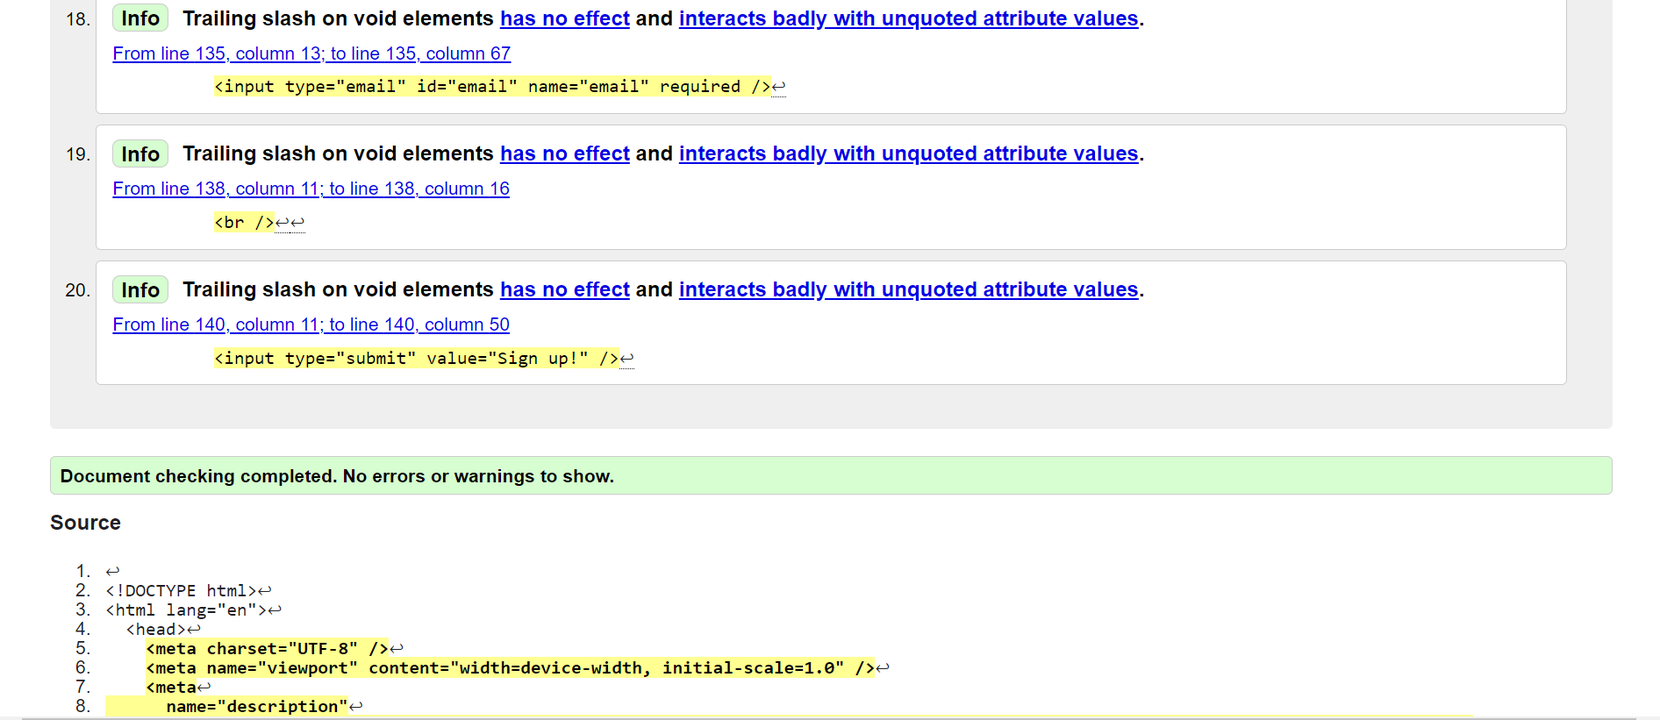
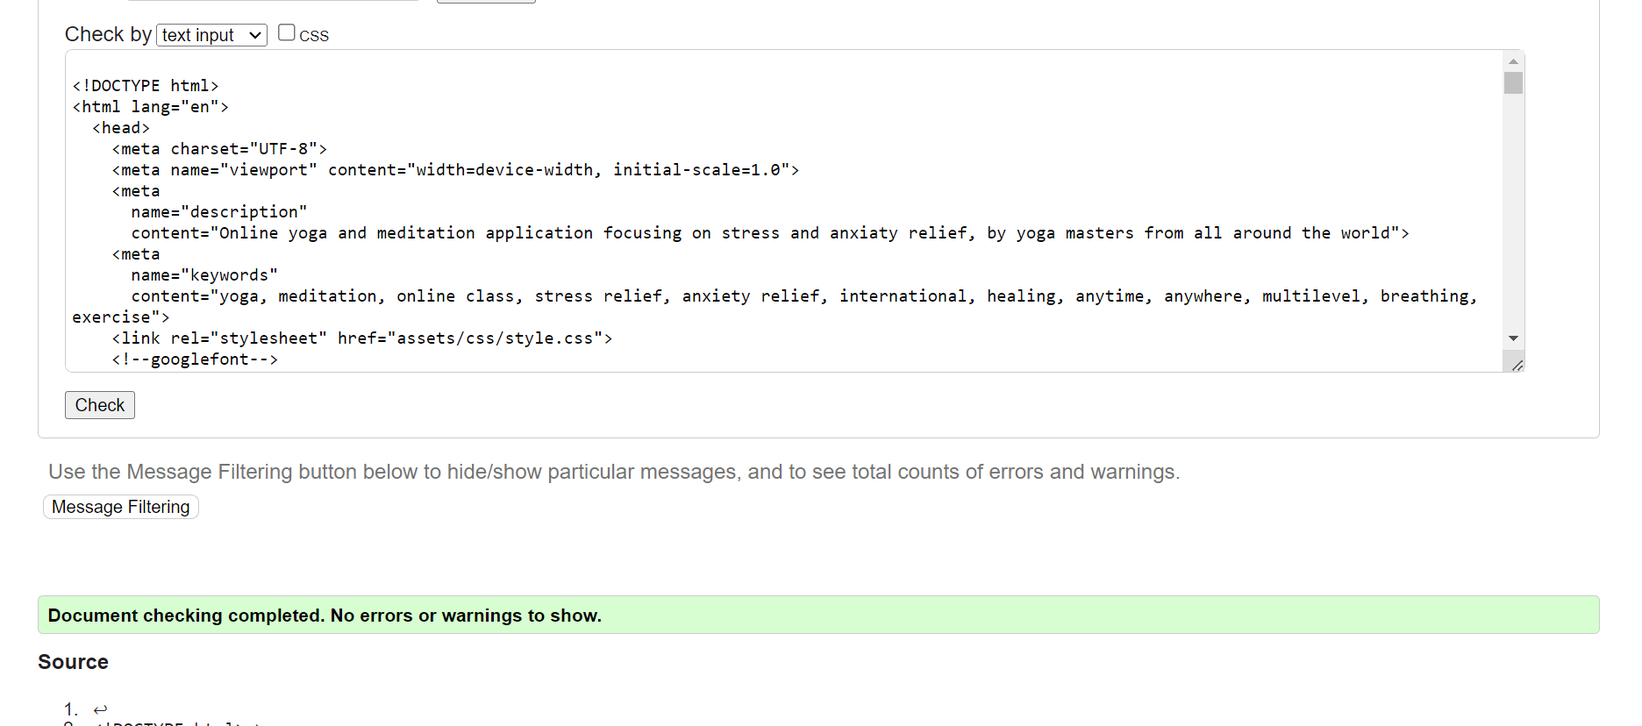
change html format, and html validator result and image

diff --git a/index.html b/index.html
@@ -1,25 +1,21 @@
 <!DOCTYPE html>
 <html lang="en">
   <head>
-    <meta charset="UTF-8" />
-    <meta name="viewport" content="width=device-width, initial-scale=1.0" />
+    <meta charset="UTF-8">
+    <meta name="viewport" content="width=device-width, initial-scale=1.0">
     <meta
       name="description"
-      content="Online yoga and meditation application focusing on stress and anxiaty relief, by yoga masters from all around the world"
-    />
+      content="Online yoga and meditation application focusing on stress and anxiaty relief, by yoga masters from all around the world">
     <meta
       name="keywords"
-      content="yoga, meditation, online class, stress relief, anxiety relief, international, healing, anytime, anywhere, multilevel, breathing, exercise"
-    />
-    <link rel="stylesheet" href="assets/css/style.css" />
+      content="yoga, meditation, online class, stress relief, anxiety relief, international, healing, anytime, anywhere, multilevel, breathing, exercise">
+    <link rel="stylesheet" href="assets/css/style.css">
     <!--googlefont-->
     <link
       href="https://fonts.googleapis.com/css2?family=Gloria+Hallelujah&family=Noto+Sans+Gujarati:wght@300;400;500;600&display=swap"
-      rel="stylesheet"
-    />
+      rel="stylesheet">
     <title>Relief Online yoga and meditation</title>
   </head>
-
   <body>
     <!--header-->
     <header>
@@ -33,23 +29,17 @@
             <a href="#home" aria-label="go to the top of the page">Home</a>
           </li>
           <li>
-            <a href="#about" aria-label="go to the about us section on the page"
-              >About</a
-            >
+            <a href="#about" aria-label="go to the about us section on the page">About</a>
           </li>
           <li>
             <a
               href="#sign-up"
-              aria-label="go to the sign up section on the page"
-              >Sign up</a
-            >
+              aria-label="go to the sign up section on the page">Sign up</a>
           </li>
           <li>
             <a
               href="#contact"
-              aria-label="go to the contact information section of the page"
-              >Contact</a
-            >
+              aria-label="go to the contact information section of the page">Contact</a>
           </li>
         </ul>
       </nav>
@@ -58,8 +48,7 @@
     <main>
       <section
         id="home"
-        aria-label="A woman is doing yoga in her home in the background image."
-      >
+        aria-label="A woman is doing yoga in her home in the background image.">
         <div>
           <h1>RELIEF Yoga & Meditation</h1>
           <h2>Anxiety and stress-relief online</h2>
@@ -67,7 +56,7 @@
       </section>
       <section id="about">
         <div class="about-paragraph" id="introduction">
-          <h3>Who are we? <br /><i class="fa-solid fa-spa"></i></h3>
+          <h3>Who are we? <br><i class="fa-solid fa-spa"></i></h3>
           <p>
             A brand new application that helps you calm down and be reborn from
             your traumas through yoga and meditation classes with the most
@@ -76,7 +65,7 @@
         </div>
         <div id="beneficial">
           <div id="when-should-apply" class="about-paragraph">
-            <h3>When should you apply?<br /><i class="fa-solid fa-spa"></i></h3>
+            <h3>When should you apply?<br><i class="fa-solid fa-spa"></i></h3>
             <ul id="reasons">
               <li>You have a busy schedule</li>
               <li>You have unsolved traumas</li>
@@ -87,7 +76,7 @@
           </div>
           <div id="benefits" class="about-paragraph">
             <h3>
-              Benefits of our classes: <br /><i class="fa-solid fa-spa"></i>
+              Benefits of our classes: <br><i class="fa-solid fa-spa"></i>
             </h3>
             <ul id="features">
               <li>Learn from international yoga masters</li>
@@ -100,13 +89,11 @@
         </div>
         <div id="about-image-background">
           <div class="only-big-screen" id="blue-rectangle"></div>
-
           <div>
             <img
               id="about-image"
               src="assets/images/pexels-karolina-grabowska.webp"
-              alt="woman is doing a streching yoga pose in her home, she looks relieved and happy"
-            />
+              alt="woman is doing a streching yoga pose in her home, she looks relieved and happy">
           </div>
           <div class="only-big-screen" id="brown-rectangle"></div>
         </div>
@@ -118,25 +105,22 @@
         <form
           action="https://formdump.codeinstitute.net"
           method="post"
-          id="signup-form"
-        >
+          id="signup-form">
           <div id="user-details">
             <label for="first-name">First name:</label>
-            <br />
-            <input type="text" id="first-name" name="first-name" required />
-            <br />
+            <br>
+            <input type="text" id="first-name" name="first-name" required>
+            <br>
             <label for="last-name">Last name:</label>
-            <br />
-            <input type="text" id="last-name" name="last-name" required />
-            <br />
+            <br>
+            <input type="text" id="last-name" name="last-name" required>
+            <br>
             <label for="email">Email:</label>
-            <br />
-            <input type="email" id="email" name="email" required />
+            <br>
+            <input type="email" id="email" name="email" required>
           </div>
-
-          <br />
-
-          <input type="submit" value="Sign up!" />
+          <br>
+          <input type="submit" value="Sign up!">
         </form>
         <i class="fa-solid fa-spa"></i>
       </section>
@@ -155,34 +139,29 @@
             href="http://www.facebook.com"
             target="_blank"
             rel="noopener noreferrer"
-            aria-label="visit our facebook page (opens in new tab)"
-            ><i class="fa-brands fa-facebook"></i
-          ></a>
+            aria-label="visit our facebook page (opens in new tab)"><i
+              class="fa-brands fa-facebook"></i></a>
         </div>
         <div>
           <a
             href="http://www.instagram.com"
             target="_blank"
             rel="noopener noreferrer"
-            aria-label="visit our instagram page (opens in new tab)"
-            ><i class="fa-brands fa-instagram"></i
-          ></a>
+            aria-label="visit our instagram page (opens in new tab)"><i
+              class="fa-brands fa-instagram"></i></a>
         </div>
         <div>
           <a
             href="http://www.twitter.com"
             target="_blank"
             rel="noopener noreferrer"
-            aria-label="visit our twitter page (opens in new tab)"
-          >
-            <i class="fa-brands fa-twitter"></i
-          ></a>
+            aria-label="visit our twitter page (opens in new tab)">
+            <i class="fa-brands fa-twitter"></i></a>
         </div>
         <div>
           <a
             href="mailto:info@relief.com"
-            aria-label="write email to us (opens in your mailing application)"
-          >
+            aria-label="write email to us (opens in your mailing application)">
             <i class="fa-solid fa-envelope"></i>
           </a>
         </div>
@@ -191,7 +170,6 @@
     </footer>
     <script
       src="https://kit.fontawesome.com/bb001f50c7.js"
-      crossorigin="anonymous"
-    ></script>
+      crossorigin="anonymous"></script>
   </body>
 </html>

diff --git a/README.md b/README.md
@@ -1,6 +1,6 @@
 # Relief Yoga & Meditation
 
-[Published github website](https://saroltah.github.io/yoga-project/)
+[Live GitHub website](https://saroltah.github.io/yoga-project/)
 
 ## Idea
 
@@ -16,7 +16,7 @@ This website presents a starting business, tells what the library would be about
 
 _Specific stand-out:_
 
-- All the videos would be made by, certified and professional yoga masters.
+- All the videos would be made by certified and professional yoga masters.
 
 - People can use the app anywhere anytime.
 
@@ -78,7 +78,7 @@ For bigger screens I changed the layout during coding, so it looks and functions
 
 - Finding background images, color palette and font family that fits to the project.
 
-  **Image:** related to the topic, so when the users look at it, they instantly know what the page is about.
+**Image:** related to the topic, so when the users look at it, they instantly know what the page is about.
 
 **Color palette:** I chose calming colors from the main photo with a color picker.
 
@@ -168,9 +168,9 @@ _Validating:_
 
     -> Added z-index.
 
-5.  Prettier ruins the consistency of HTML format.
+5.  *Prettier* ruined the consistency of HTML format.
 
-    -> Changed it in the end.
+    -> In _settings > user > extensions > prettier_ I marked the *Prettier: Bracket Same Line* checkbox. It didn't work. So I disabled the extension in the end, and used *HTML Format* extention instead.
 
 ## Deployment
 
@@ -202,31 +202,31 @@ _Validating:_
 
 Tried on mobile, tablet, laptop and desktop screen view.
 
-| What to do                                                                        | How to do                                                                                                         | Expected outcome                                                                                   | Actual Outcome                                                                                                                                |
-| --------------------------------------------------------------------------------- | ----------------------------------------------------------------------------------------------------------------- | -------------------------------------------------------------------------------------------------- | --------------------------------------------------------------------------------------------------------------------------------------------- |
-| Header, menu and logo always visible                                              | Scrolling the page, clicking on menu links                                                                        | Header, menu and logo always visible                                                               | Header, menu and logo always visible                                                                                                          |
-| _Home_ link leads back to _Home_ section                                          | Click on _Home_ link                                                                                              | Goes back to homepage, where h1 and h2 is visible                                                  | Goes back to homepage, where h1 and h2 is visible                                                                                             |
-| _About_ leads to _About_ section                                                  | Click on _About_ link                                                                                             | Goes to _About_ section, the _Who are we?_ paragraph is visible                                    | Goes to _About_ section, the _Who are we?_ paragraph is visible                                                                               |
-| _Sign up_ leads to _Sign-up_ section                                              | Click on _Sign up_ link                                                                                           | Goes to _Sign-up_ section, where the sign up form is visible, with all questions and button        | Goes to _Sign-up_ section, where the sign up form is visible, with all questions and button                                                   |
-| _Contact_ leads to _Contact_ section                                              | Click on _Contact_ link                                                                                           | Goes down to the bottom of the page so the whole _Contact_ section is visible                      | Goes down to the bottom of the page so the whole _Contact_ section is visible                                                                 |
-| The menu links change color when clicking on them                                 | Click on the links one by one                                                                                     | They all change color (from black to brown until clicking somewhere else)                          | They all change color (from black to brown until clicking somewhere else)                                                                     |
-| The header layout is different for laptop (or bigger) screens                     | Resize the page in developer tools                                                                                | Logo and menu is in the same line                                                                  | Logo and menu is in the same line                                                                                                             |
-| The _About_ section image has background on tablet size and bigger                | Resize the page in developer tools                                                                                | The _About_ section image has two rectangles behind it                                             | The _About_ section image has two rectangles behind it line                                                                                   |
-| The text and email type of input fields change color when clicking on them        | Pointing the cursor on them, then click on them one by one                                                        | They all change color - from brown to light blue when pointing, then black when clicking           | They all change color - from brown to light blue when pointing, then black when clicking                                                      |
-| The submit input changes color when pointing on it                                | Pointing the cursor on it, then click on it                                                                       | It gets a light blue box shadow instead of brown, and the border disappears.                       | It gets a light blue box shadow instead of brown, and the border disappears                                                                   |
-| The text input fields are required                                                | Trying to submit them empty one by one                                                                            | It doesn't let submit, it writes out that the field needs to be filled                             | It doesn't let submit, it writes out that the field needs to be filled                                                                        |
-| The email input field is required                                                 | Trying to submit it empty, then without the @, then without anything in front of @, then without anything after @ | It doesn't let submit, it writes out that the field needs to be filled with the right email format | It doesn't let submit, it writes out that the field needs to be filled with the right email format                                            |
-| The submit button is working, and the form attributes are correct                 | Click on _Sign up_ button                                                                                         | It shows the written data on Code Institute's form-dump page                                       | It shows the written data on Code Institute's form-dump page                                                                                  |
-| The input name and value is added correctly                                       | Submit the data (click on _Sign up_ button)                                                                       | On Code Institute's form-dump page the _Input name_ and _Value_ table is correct                   | On Code Institute's form-dump page the _Input name_ and _Value_ table is correct                                                              |
-| The Footer has different layout on tablet size or bigger                          | Resize the page in developer tools                                                                                | The contact icons have no longer border, and the logo icon appears on both side                    | The contact icons have no longer border, and the logo icon appears on both side                                                               |
-| The contact icons change color, and cursor turns to pointer when hovering on them | Hover on a contact icon                                                                                           | They change color to brown from black, the cursor turns to pointer                                 | They change color to brown from black, the cursor turns to pointer                                                                            |
-| The Facebook icon / link is correct and opens in a new tab                        | Click on Facebook icon                                                                                            | It opens Facebook page in a new tab                                                                | It opens Facebook page in a new tab                                                                                                           |
-| The Instagram icon / link is correct and opens in a new tab                       | Click on Instagram icon                                                                                           | It opens Instagram page in a new tab                                                               | It opens Instagram page in a new tab                                                                                                          |
-| The Twitter icon / link is correct and opens in a new tab                         | Click on Twitter icon                                                                                             | It opens Twitter page in a new tab                                                                 | It opens Twitter page in a new tab                                                                                                            |
-| The Email icon / link is correct and opens in a new tab                           | Click on Email icon                                                                                               | It opens my email server with the receiver's email address:*info@relief.com* in a new tab          | It opens my email server with the receiver's email address:*info@relief.com* in a new tab                                                     |
-| Responsive on all screen sizes                                                    | Open developer tools and check, use _Am I responsive?_ website                                                    | It looks good and all the functions are working properly in all sizes                              | It looks good and all the functions are working properly in all sizes.                                                                        |
-| Correct CSS file                                                                  | Copy the code to _W3C CSS validator_ website.                                                                     | There are no errors                                                                                | There are no errors.                                                                                                                          |
-| Correct HTML file                                                                 | Copy the code to The _W3C HTML validator_ website.                                                                | There are no errors                                                                                | There are no errors. It only mentions that the slash is not necessary for self-closing tags. Prettier corrects the code and put the slash in. |
+| What to do                                                                        | How to do                                                                                                         | Expected outcome                                                                                   | Actual Outcome                                                                                                                                 |
+| --------------------------------------------------------------------------------- | ----------------------------------------------------------------------------------------------------------------- | -------------------------------------------------------------------------------------------------- | ---------------------------------------------------------------------------------------------------------------------------------------------- |
+| Header, menu and logo always visible                                              | Scrolling the page, clicking on menu links                                                                        | Header, menu and logo always visible                                                               | Header, menu and logo always visible                                                                                                           |
+| _Home_ link leads back to _Home_ section                                          | Click on _Home_ link                                                                                              | Goes back to homepage, where h1 and h2 is visible                                                  | Goes back to homepage, where h1 and h2 is visible                                                                                              |
+| _About_ leads to _About_ section                                                  | Click on _About_ link                                                                                             | Goes to _About_ section, the _Who are we?_ paragraph is visible                                    | Goes to _About_ section, the _Who are we?_ paragraph is visible                                                                                |
+| _Sign up_ leads to _Sign-up_ section                                              | Click on _Sign up_ link                                                                                           | Goes to _Sign-up_ section, where the sign up form is visible, with all questions and button        | Goes to _Sign-up_ section, where the sign up form is visible, with all questions and button                                                    |
+| _Contact_ leads to _Contact_ section                                              | Click on _Contact_ link                                                                                           | Goes down to the bottom of the page so the whole _Contact_ section is visible                      | Goes down to the bottom of the page so the whole _Contact_ section is visible                                                                  |
+| The menu links change color when clicking on them                                 | Click on the links one by one                                                                                     | They all change color (from black to brown until clicking somewhere else)                          | They all change color (from black to brown until clicking somewhere else)                                                                      |
+| The header layout is different for laptop (or bigger) screens                     | Resize the page in developer tools                                                                                | Logo and menu is in the same line                                                                  | Logo and menu is in the same line                                                                                                              |
+| The _About_ section image has background on tablet size and bigger                | Resize the page in developer tools                                                                                | The _About_ section image has two rectangles behind it                                             | The _About_ section image has two rectangles behind it line                                                                                    |
+| The text and email type of input fields change color when clicking on them        | Pointing the cursor on them, then click on them one by one                                                        | They all change color - from brown to light blue when pointing, then black when clicking           | They all change color - from brown to light blue when pointing, then black when clicking                                                       |
+| The submit input changes color when pointing on it                                | Pointing the cursor on it, then click on it                                                                       | It gets a light blue box shadow instead of brown, and the border disappears.                       | It gets a light blue box shadow instead of brown, and the border disappears                                                                    |
+| The text input fields are required                                                | Trying to submit them empty one by one                                                                            | It doesn't let submit, it writes out that the field needs to be filled                             | It doesn't let submit, it writes out that the field needs to be filled                                                                         |
+| The email input field is required                                                 | Trying to submit it empty, then without the @, then without anything in front of @, then without anything after @ | It doesn't let submit, it writes out that the field needs to be filled with the right email format | It doesn't let submit, it writes out that the field needs to be filled with the right email format                                             |
+| The submit button is working, and the form attributes are correct                 | Click on _Sign up_ button                                                                                         | It shows the written data on Code Institute's form-dump page                                       | It shows the written data on Code Institute's form-dump page                                                                                   |
+| The input name and value is added correctly                                       | Submit the data (click on _Sign up_ button)                                                                       | On Code Institute's form-dump page the _Input name_ and _Value_ table is correct                   | On Code Institute's form-dump page the _Input name_ and _Value_ table is correct                                                               |
+| The Footer has different layout on tablet size or bigger                          | Resize the page in developer tools                                                                                | The contact icons have no longer border, and the logo icon appears on both side                    | The contact icons have no longer border, and the logo icon appears on both side                                                                |
+| The contact icons change color, and cursor turns to pointer when hovering on them | Hover on a contact icon                                                                                           | They change color to brown from black, the cursor turns to pointer                                 | They change color to brown from black, the cursor turns to pointer                                                                             |
+| The Facebook icon / link is correct and opens in a new tab                        | Click on Facebook icon                                                                                            | It opens Facebook page in a new tab                                                                | It opens Facebook page in a new tab                                                                                                            |
+| The Instagram icon / link is correct and opens in a new tab                       | Click on Instagram icon                                                                                           | It opens Instagram page in a new tab                                                               | It opens Instagram page in a new tab                                                                                                           |
+| The Twitter icon / link is correct and opens in a new tab                         | Click on Twitter icon                                                                                             | It opens Twitter page in a new tab                                                                 | It opens Twitter page in a new tab                                                                                                             |
+| The Email icon / link is correct and opens in a new tab                           | Click on Email icon                                                                                               | It opens my email server with the receiver's email address:*info@relief.com* in a new tab          | It opens my email server with the receiver's email address:*info@relief.com* in a new tab                                                      |
+| Responsive on all screen sizes                                                    | Open developer tools and check, use _Am I responsive?_ website                                                    | It looks good and all the functions are working properly in all sizes                              | It looks good and all the functions are working properly in all sizes.                                                                         |
+| Correct CSS file                                                                  | Copy the code to _W3C CSS validator_ website.                                                                     | There are no errors                                                                                | There are no errors.                                                                                                                           |
+| Correct HTML file                                                                 | Copy the code to The _W3C HTML validator_ website.                                                                | There are no errors                                                                                | There are no errors |
 
 _Checking email input:_
 
@@ -246,7 +246,7 @@ _Am I responsive?_
 
 _HTML validator:_
 
-![HTML validator result](</assets/images/readme-images/html validator.png>)
+![HTMl validator result](</assets/images/readme-images/html validator.png>)
 
 _CSS validator:_
 
